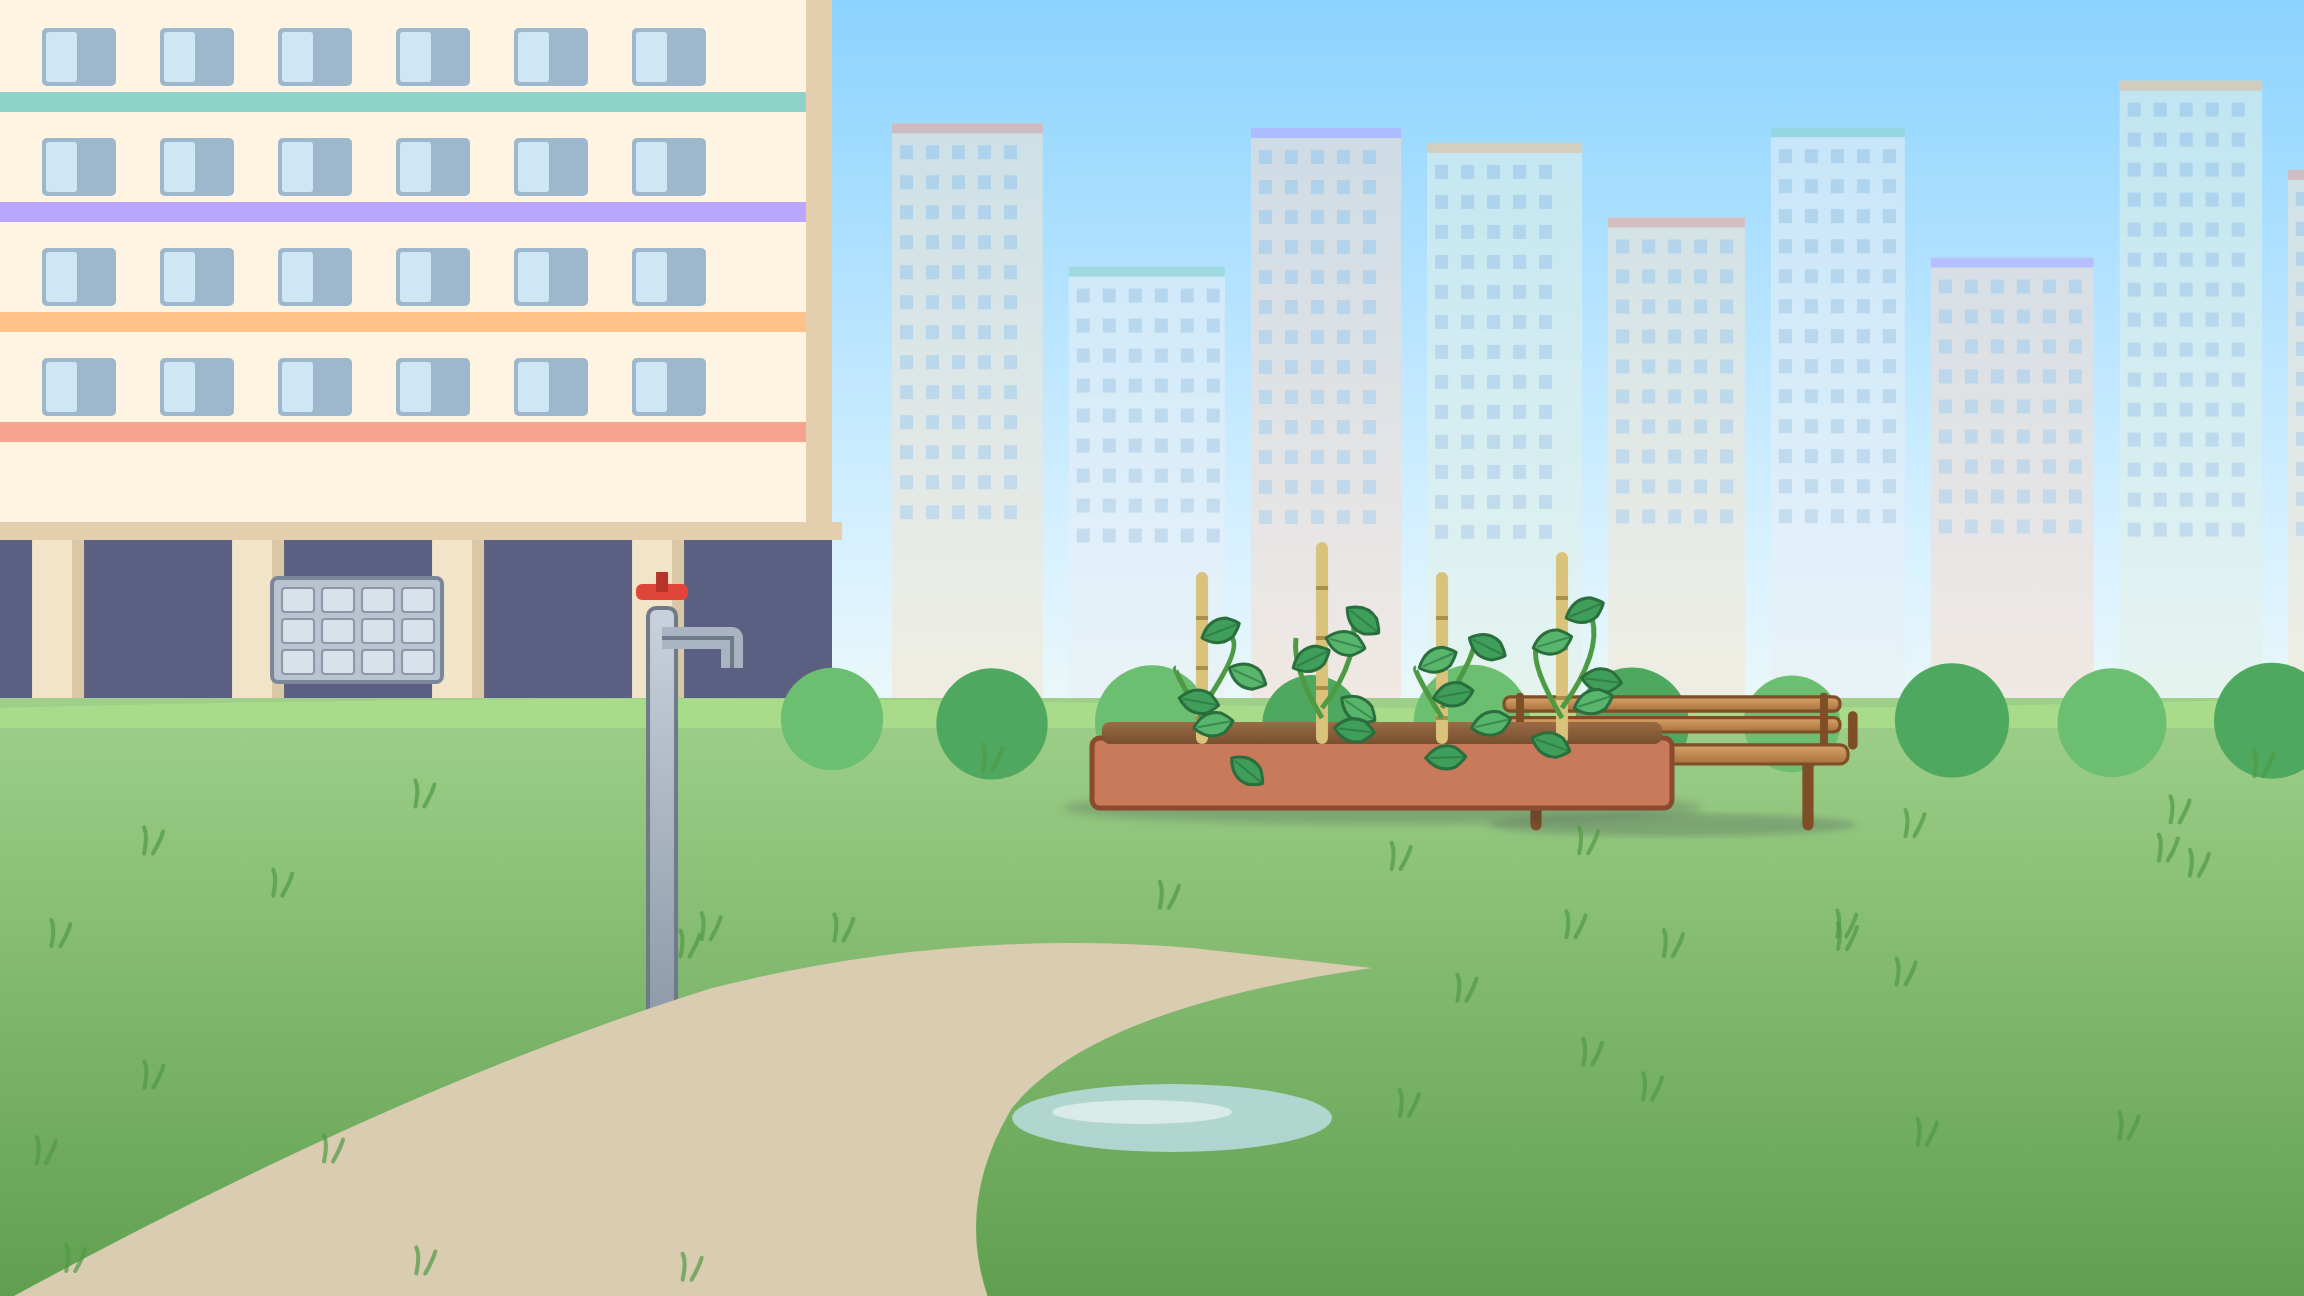
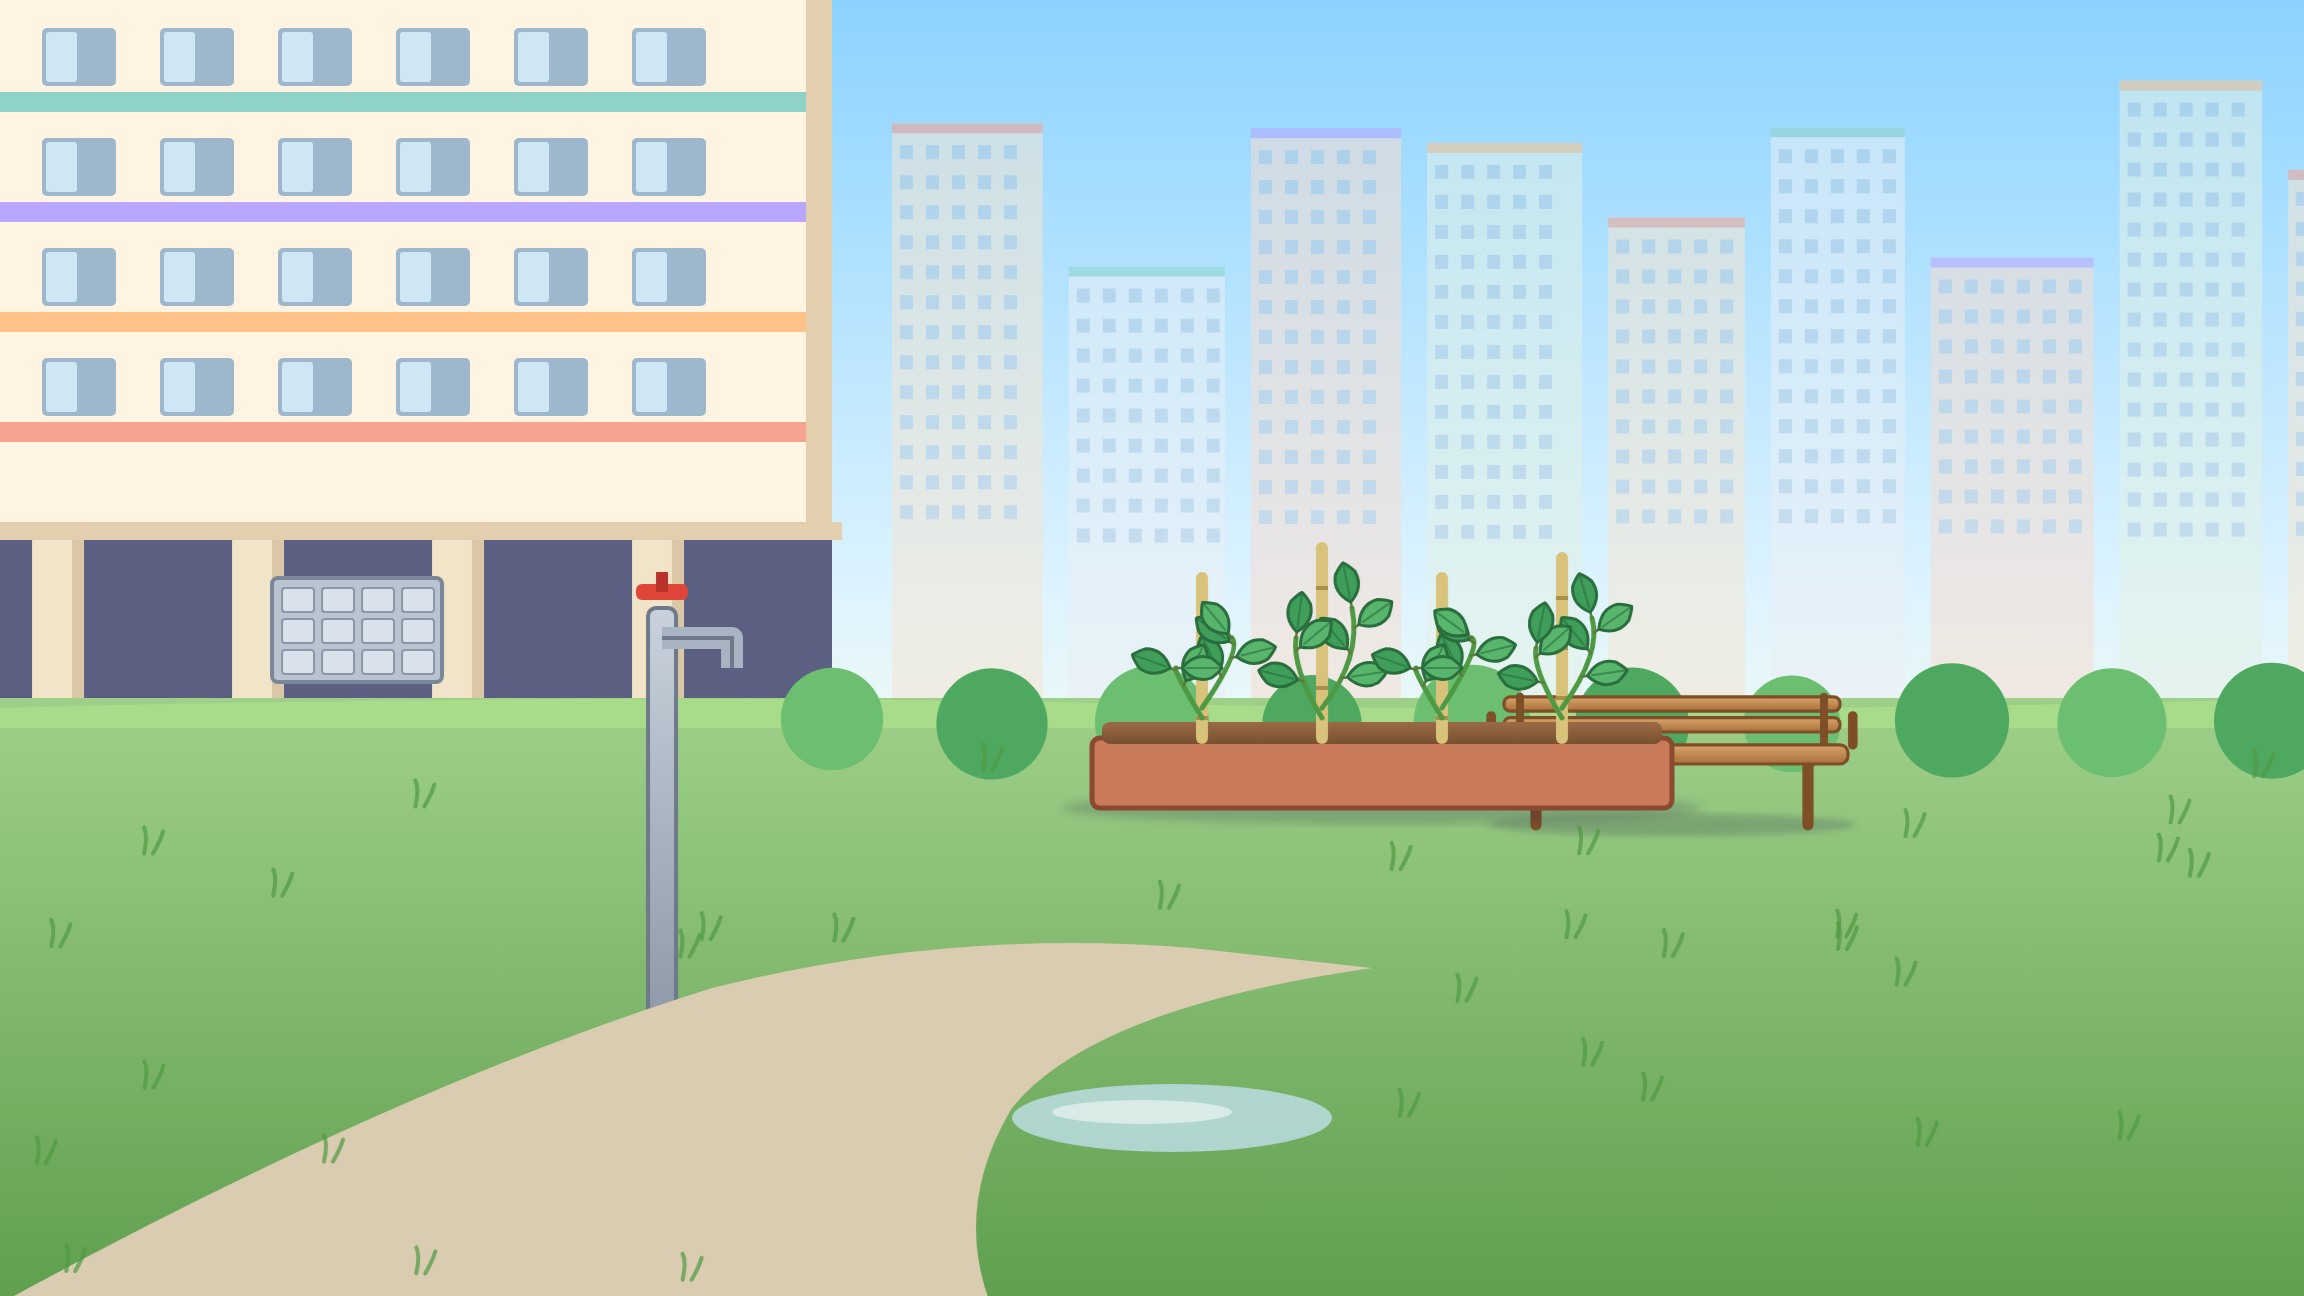
EP17: every leaf on a twig (lime plant, bean vines, corridor pots, pupa look-closer, journey, pictures)
The lime plant now grows like EP18's: trunk, branches and side twigs, every leaf on a
short stalk; the caterpillar's twig is real wood with the chewed leaf on its stalk; the
moth's answer1 leaf and lime-scene leaf are real leaves. corner17 re-baked.

Claude-Session: https://claude.ai/code/session_017vcscXTweEdXk7zMTDrzTD

Changed region(s): [[0.4688, 0.4321, 0.7188, 0.5864], [0.5312, 0.5864, 0.5625, 0.6173]]

diff --git a/production/workspace/explained2/ep17/sets17.js b/production/workspace/explained2/ep17/sets17.js
@@ -28,6 +28,15 @@ const benchArt17 = (bx, by, k = 1) => TF(bx, by, k, `<ellipse cx="0" cy="96" rx=
 const canArt17 = (o = {}) => TF(0, 0, o.k || 1, `<ellipse cx="0" cy="4" rx="90" ry="12" fill="${P.ink}" opacity=".22" filter="url(#b4)"/><path d="M-70 0 L-60 -120 H60 L70 0z" fill="${o.col || "#4FB0A0"}" stroke="${o.line || "#2E7A6E"}" stroke-width="5" stroke-linejoin="round"/><path d="M60 -90 L150 -160 L162 -150 L76 -70" fill="${o.col || "#4FB0A0"}" stroke="${o.line || "#2E7A6E"}" stroke-width="5" stroke-linejoin="round"/><ellipse cx="160" cy="-158" rx="18" ry="10" fill="${o.line || "#2E7A6E"}" transform="rotate(-40 160 -158)"/><path d="M-50 -120 Q0 -200 50 -120" stroke="${o.line || "#2E7A6E"}" stroke-width="12" fill="none" stroke-linecap="round"/><path d="M-60 -60 H60" stroke="#fff" stroke-width="5" opacity=".35"/>`);
 // the handle's top (where an animal can sit), in the can's own frame
 const CANHANDLE = [0, -160];
+// a leaf on its short leaf stalk at (x, y), pointing at angle a (deg) (SERIES_FORMAT: every leaf joins a stem; no leaf floats)
+const stalkLeaf17 = (x, y, a, len, wid, i, o = {}) => { const st = o.stalk || Math.max(8, len * .18); return `<g transform="translate(${n2(x)} ${n2(y)}) rotate(${n2(a)})"><path d="M0 0 L${n2(st)} 0" stroke="${o.stalkC || "#5E7A3A"}" stroke-width="${n2(Math.max(2.5, wid * .14))}" stroke-linecap="round"/><g transform="translate(${n2(st - 2)} 0)">${leaf15(len, wid, (o.cols || ["#3E9E5A", "#58B56C"])[i % 2], o.line || "#2A6E3E")}</g></g>`; };
+// a leafy twig: the stem b = [x0, y0, cx, cy, x1, y1] (a quadratic curve), leaves on stalks along it (alternate sides) and one at its tip.
+// o: n, len, wid, w (stem width), wood, u0, u1, spread (deg), sw (k => sway deg), tip (false: none), seed, stalk, cols, line
+const leafyTwig17 = (b, o = {}) => { const n = o.n === undefined ? 3 : o.n, len = o.len || 60, wid = o.wid || 24, u0 = o.u0 === undefined ? .35 : o.u0, u1 = o.u1 === undefined ? .85 : o.u1, sw = o.sw || (() => 0), sd = o.seed || 0;
+  let s = `<path d="M${n2(b[0])} ${n2(b[1])} Q${n2(b[2])} ${n2(b[3])} ${n2(b[4])} ${n2(b[5])}" stroke="${o.wood || "#7A5230"}" stroke-width="${o.w || 8}" fill="none" stroke-linecap="round"/>`;
+  for (let k = 0; k < n; k++) { const u = u0 + (u1 - u0) * (n > 1 ? k / (n - 1) : 0), [x, y] = qpt(b, u); s += stalkLeaf17(x, y, qang(b, u) + ((k + sd) % 2 ? 1 : -1) * (o.spread || 50) + sw(k), len, wid, k + sd, o); }
+  if (o.tip !== false) s += stalkLeaf17(b[4], b[5], qang(b, 1) + sw(n), len, wid, n + sd, o);
+  return s; };
 
 /* ---------------------------------------------------------------- THE LIME-PLANT SIDE ---------------------------------------------------------------- */
 const POTL = [1160, 950], FENCE = { y: 650, post: [1690, 650] }, BENCHL = [420, 700], PLANTERL = [700, 760];
@@ -131,8 +140,9 @@ BG.corner17 = () => { let s = `<rect x="-200" y="-120" width="2320" height="800"
   // the planter bed with bamboo stakes (the dragonfly's intro spot: a stake's tip)
   s += `<ellipse cx="1190" cy="700" rx="320" ry="16" fill="${P.ink}" opacity=".2" filter="url(#b4)"/><rect x="900" y="630" width="580" height="70" rx="8" fill="#C97A5A" stroke="#8A4A2E" stroke-width="5"/><rect x="910" y="614" width="560" height="22" rx="8" fill="url(#g14Soil)"/>`;
   STAKES.forEach(([x, y], i) => { s += `<path d="M${x} 630 L${x} ${y}" stroke="#D9C27A" stroke-width="12" stroke-linecap="round"/>${[0, 1, 2].map((k) => `<path d="M${x - 6} ${y + 40 + k * 50} h12" stroke="#A8904A" stroke-width="4"/>`).join("")}`;
-    s += `<path d="M${x} 600 Q${x + 40} ${n2(560 - 30 * hash(i, 3))} ${x + 30} ${y + 60} M${x} 610 Q${x - 30} 560 ${x - 26} ${y + 90}" stroke="#4E9A44" stroke-width="5" fill="none"/>`;
-    for (let k = 0; k < 5; k++) s += `<g transform="translate(${n2(x + 30 * Math.sin(k * 2 + i))} ${n2(y + 60 + k * 30)}) rotate(${n2(-40 + 80 * hash(k + i * 5, 7))})">${leaf15(40, 16, k % 2 ? "#58B56C" : "#3E9E5A", "#2A6E3E")}</g>`; });
+    // the bean vines climbing the stake: every leaf on a vine, on its own little stalk (SERIES_FORMAT: no leaf in mid-air)
+    const vo = { len: 40, wid: 16, w: 5, wood: "#4E9A44", stalk: 8, cols: ["#3E9E5A", "#58B56C"] };
+    s += leafyTwig17([x, 600, x + 40, 560 - 30 * hash(i, 3), x + 30, y + 60], { ...vo, n: 3, u0: .3, u1: .8, spread: 55, seed: i }) + leafyTwig17([x, 610, x - 30, 560, x - 26, y + 90], { ...vo, n: 2, u0: .4, u1: .8, spread: 55, seed: i + 1 }); });
   // the tap on its pipe (with a drip at the spout)
   { const [tx, ty] = TAPC; s += `<rect x="${tx - 14}" y="${ty - 200}" width="28" height="${200 + 220}" rx="8" fill="url(#e17Steel)" stroke="#6E7A8A" stroke-width="4"/><path d="M${tx} ${ty - 170} H${tx + 70} V${ty - 140}" stroke="#A9B4C2" stroke-width="22" fill="none" stroke-linejoin="round"/><path d="M${tx} ${ty - 170} H${tx + 70} V${ty - 140}" stroke="#6E7A8A" stroke-width="4" fill="none"/><rect x="${tx - 26}" y="${ty - 224}" width="52" height="16" rx="6" fill="#E0453A"/><rect x="${tx - 6}" y="${ty - 236}" width="12" height="20" fill="#B8342A"/>`; }
   // a puddle drying on the path, wet shine
@@ -154,7 +164,9 @@ function pailArt17(t, o = {}) { const w = PAILW, h = PAILH, wb = w * .78, wy = -
 // the flower pot on its little plate (origin = the plate's middle). o.k
 const plantPotPlate = (t, o = {}) => TF(0, 0, o.k || 1, `<ellipse cx="0" cy="6" rx="130" ry="20" fill="${P.ink}" opacity=".2" filter="url(#b4)"/><ellipse cx="0" cy="0" rx="120" ry="24" fill="#C8643E" stroke="#8A3E22" stroke-width="5"/><ellipse cx="0" cy="-4" rx="102" ry="16" fill="#9FD0DE"/><ellipse cx="-30" cy="-6" rx="30" ry="4" fill="#fff" opacity=".6"/>`
   + `<path d="M-80 -10 L-96 -170 H96 L80 -10z" fill="url(#p15Pot)" stroke="#9A4A2A" stroke-width="5"/><rect x="-104" y="-190" width="208" height="28" rx="8" fill="#D9774A" stroke="#9A4A2A" stroke-width="5"/>`
-  + [...Array(9)].map((_, i) => `<g transform="translate(${-50 + i * 12} -188) rotate(${-120 + i * 30 + 4 * Math.sin(t * 1.2 + i)})">${leaf15(80, 26, i % 2 ? "#58B56C" : "#3E9E5A", "#2A6E3E")}</g>`).join("") + `<g transform="translate(20 -300)">${[0, 1, 2, 3, 4].map((k) => `<ellipse cx="0" cy="-14" rx="10" ry="15" fill="#F49BC4" transform="rotate(${k * 72})"/>`).join("")}<circle r="7" fill="#FFD75A"/></g>`);
+  + `<ellipse cx="0" cy="-188" rx="92" ry="9" fill="url(#p15Soil)"/>` + (() => { const sw = (j) => (k) => 4 * Math.sin(t * 1.2 + j * 2 + k), po = { len: 66, wid: 24, w: 6, wood: "#4E8A3A", stalk: 10, cols: ["#3E9E5A", "#58B56C"] };
+    return leafyTwig17([-14, -186, -40, -236, -92, -262], { ...po, n: 3, u0: .2, u1: .75, spread: 55, sw: sw(0) }) + leafyTwig17([14, -186, 50, -230, 96, -250], { ...po, n: 3, u0: .2, u1: .75, spread: 55, sw: sw(1), seed: 1 })
+      + leafyTwig17([0, -186, 8, -250, 20, -288], { ...po, n: 2, u0: .3, u1: .65, spread: 60, tip: false, sw: sw(2) }); })() + `<g transform="translate(20 -300)">${[0, 1, 2, 3, 4].map((k) => `<ellipse cx="0" cy="-14" rx="10" ry="15" fill="#F49BC4" transform="rotate(${k * 72})"/>`).join("")}<circle r="7" fill="#FFD75A"/></g>`);
 const DFLYAT = { place: [STAKES[1][0], STAKES[1][1] - 6, .34, 0], game: [STAKES[1][0], STAKES[1][1] - 6, .34, 0], waitw: [PAILC[0] + 120, PAILC[1] - PAILH - 16, .3, -20],
   mosqans: [TAPC[0] + 2, TAPC[1] - 240, .3, 0], show: null, fix: [170, 466, .3, 0], liz: [CANC[0] + 2, CANC[1] - 164, .36, -10] };
 // VCR: the live far corner. o: rings, wrig (1 hanging, 2 diving), pupae, dflyAt ([..] | false), items, front, dim, noPail

diff --git a/production/workspace/explained2/ep17/lc17.js b/production/workspace/explained2/ep17/lc17.js
@@ -10,7 +10,7 @@
 
 /* ================================================================ PART 1 ================================================================ */
 // the ring's picture (lockN obj, drawn around (430, 470)): the caterpillar, big, munching its lime leaf
-const ringCat = (tt) => `<circle cx="430" cy="470" r="188" fill="#DFF3D2"/><g transform="translate(330 560) rotate(-12)">${leaf15(240, 80, "#58B56C", "#2F7A45")}</g><path d="M240 600 Q430 560 640 590" stroke="#7A5230" stroke-width="14" fill="none" stroke-linecap="round"/>` + TF(430, 584, .62, cat17(tt, {}), -4);
+const ringCat = (tt) => `<circle cx="430" cy="470" r="188" fill="#DFF3D2"/><path d="M336 586 Q328 574 330 558" stroke="#5E7A3A" stroke-width="10" fill="none" stroke-linecap="round"/><g transform="translate(330 560) rotate(-12)">${leaf15(240, 80, "#58B56C", "#2F7A45")}</g><path d="M240 600 Q430 560 640 590" stroke="#7A5230" stroke-width="14" fill="none" stroke-linecap="round"/>` + TF(430, 584, .62, cat17(tt, {}), -4);
 // Momo's idea (a worm?): a pink earthworm wriggling in soil, with a ? (an idea, never a fact)
 const wormIdea = (t) => { let s = `<rect x="-300" y="-200" width="600" height="400" fill="#E9D3B4"/><rect x="-300" y="40" width="600" height="160" fill="#8A5A3A"/>`;
   const pts = [...Array(9)].map((_, i) => [-130 + i * 32, 30 + 14 * Math.sin(i * .9 + t * 4)]); s += `<path d="M${pts.map(([x, y]) => `${x} ${n2(y)}`).join(" L")}" stroke="#E98A9A" stroke-width="34" fill="none" stroke-linecap="round" stroke-linejoin="round"/><path d="M${pts.map(([x, y]) => `${x} ${n2(y - 6)}`).join(" L")}" stroke="#F6B6C0" stroke-width="10" fill="none" stroke-linecap="round" opacity=".7"/>`
@@ -55,7 +55,9 @@ function pupaArt(t) { const m = MK, s0 = SCN.lcpupa.t0 + 1, tW = m("window"), tC
   const WC = pupaPt(4, -150), cam = camSeq(t, [s0, tW, tD - .4, tO, tFl], [[-60, 0, 1], [WC[0] + 60, WC[1], 1.55], [-80, -20, 1.12], [pupaPt(-14, -300)[0] + 80, pupaPt(-14, -300)[1] - 110, 1.3], [60, -60, 1]], 1.1);
   const cp = (p) => [(p[0] - cam[0]) * cam[2], (p[1] - cam[1]) * cam[2]]; let lab = "";
   const lit = { wings: pulse(t, W("a1102", "develop") + .2, .05, 1.6), feelers: pulse(t, W("a1102", "develop") + 1.1, .05, 1.6), legs: pulse(t, W("a1102", "adult") + .1, .05, 1.6) };
-  let w = `<path d="M-900 300 Q-400 260 0 320 T900 300 V500 H-900z" fill="#BFE3A8" opacity=".5"/><g transform="translate(380 220) rotate(-20)">${leaf15(260, 90, "#58B56C", "#2F7A45")}</g><g transform="translate(-620 -260) rotate(30)">${leaf15(200, 70, "#3E9E5A", "#2A6E3E")}</g>`;
+  let w = `<path d="M-900 300 Q-400 260 0 320 T900 300 V500 H-900z" fill="#BFE3A8" opacity=".5"/>`
+    + leafyTwig17([920, 330, 680, 300, 440, 262], { n: 2, len: 170, wid: 60, w: 22, u0: .25, u1: .6, spread: 40, stalk: 22, cols: ["#58B56C", "#3E9E5A"], line: "#2F7A45" })
+    + leafyTwig17([-920, -330, -760, -330, -640, -272], { n: 1, len: 200, wid: 70, w: 20, u0: .45, spread: 50, stalk: 22, cols: ["#3E9E5A", "#58B56C"], line: "#2A6E3E" });
   // the pupa (or, once the butterfly is out, the empty case), held to its stem
   w += TF(PPX, PPY, PPK, pupa17(t, { dark, win, form, split, empty, lit, id: "lp" }));
   // the labels, colour-coded and joined: pupal case (purple), wings / feelers / legs inside the window
@@ -82,7 +84,7 @@ function pupaArt(t) { const m = MK, s0 = SCN.lcpupa.t0 + 1, tW = m("window"), tC
 function leafField(t, k = 1, rot = 0, bites = 0) { const vx = 960, vy = 330; let s = `<rect width="1920" height="1080" fill="url(#e17LeafSky)"/>`;
   s += `<g transform="translate(960 600) rotate(${n2(rot)}) scale(${n2(k)}) translate(-960 -600)">`;
   // far leaves and a branch, out of focus
-  s += [[260, 200, 380, 140], [1600, 160, 420, 150], [980, 120, 300, 100]].map(([x, y, l, wd], i) => `<g transform="translate(${x} ${y}) rotate(${-30 + 40 * i})" opacity=".55" filter="url(#b6)">${leaf15(l, wd, "#58B56C", "#3E9E5A")}</g>`).join("") + `<path d="M-200 60 Q700 140 2100 40" stroke="#7A5230" stroke-width="40" fill="none" opacity=".4" filter="url(#b6)"/>`;
+  { const FB = [-200, 60, 700, 140, 2100, 40]; s += `<g opacity=".55" filter="url(#b6)"><path d="M-200 60 Q700 140 2100 40" stroke="#7A5230" stroke-width="40" fill="none" opacity=".75"/>` + [[.2, 40, 380, 140], [.5, 150, 300, 100], [.78, 30, 420, 150]].map(([u, a, l, wd], i) => { const [x, y] = qpt(FB, u); return stalkLeaf17(x, y, a, l, wd, 0, { stalk: 40, cols: ["#58B56C"], line: "#3E9E5A", stalkC: "#6E8A44" }); }).join("") + `</g>`; }
   // the leaf: a wide plane with its midrib and veins
   s += `<path d="M-700 1300 Q-560 420 ${vx} ${vy} Q2480 420 2620 1300z" fill="#5FB860" stroke="#3E9E5A" stroke-width="14"/><path d="M-700 1300 Q-560 420 ${vx} ${vy} Q2480 420 2620 1300z" fill="url(#e17LeafShine)"/>`
     + `<path d="M960 1300 L${vx} ${vy}" stroke="#A8E39A" stroke-width="34"/>` + [...Array(9)].map((_, i) => { const u = (i + 1) / 10, y = vy + (1300 - vy) * u * u, x0 = 960; return `<path d="M${x0} ${n2(y)} Q${n2(x0 - 600 * u)} ${n2(y - 60 * u)} ${n2(x0 - 1700 * u)} ${n2(y - 200 * u)} M${x0} ${n2(y)} Q${n2(x0 + 600 * u)} ${n2(y - 60 * u)} ${n2(x0 + 1700 * u)} ${n2(y - 200 * u)}" stroke="#8FD486" stroke-width="${n2(4 + 14 * u)}" fill="none"/>`; }).join("");
@@ -134,7 +136,7 @@ const ffSilk = (t, w, h) => `<rect x="${-w / 2}" y="${-h / 2}" width="${w}" heig
 // the recap pictures (Part 2's "Last time...": 1040 x 600 each, one at a time): the caterpillar on its leaf (a larva), the empty pupal case
 // and the butterfly beside it, the pail of rainwater with a ?
 const recapPic17 = (i, t) => { let s = `<rect x="-520" y="-300" width="1040" height="600" fill="${["#E3F4D8", "#EAF6E2", "#DCEFFB"][i]}"/>`;
-  if (i === 0) s += `<path d="M-520 120 Q0 60 520 110" stroke="#7A5230" stroke-width="40" fill="none"/><g transform="translate(-460 150) rotate(-20)">${leaf15(300, 100, "#58B56C", "#2F7A45")}</g>` + TF(30, 100, 1.5, cat17(t, {}));
+  if (i === 0) s += `<path d="M-520 120 Q0 60 520 110" stroke="#7A5230" stroke-width="40" fill="none"/><path d="M-464 112 Q-466 132 -460 152" stroke="#5E7A3A" stroke-width="14" fill="none" stroke-linecap="round"/><g transform="translate(-460 150) rotate(-20)">${leaf15(300, 100, "#58B56C", "#2F7A45")}</g>` + TF(30, 100, 1.5, cat17(t, {}));
   if (i === 1) s += TF(-180, 240, 1.25, pupa17(t, { empty: true })) + TF(200, -30, .85, bfly17(t, { flap: .3 + .3 * Math.sin(t * 2.5) }));
   if (i === 2) s += `<rect x="-520" y="120" width="1040" height="180" fill="#9FD08A"/>` + TF(0, 260, 1.5, pailArt17(t, { rings: [[MK("pic3") + .4, 0]], wrig: 1, id: "rc" }));
   return s; };

diff --git a/production/workspace/explained2/ep17/art17.js b/production/workspace/explained2/ep17/art17.js
@@ -168,7 +168,7 @@ function dnymph17(t, o = {}) { const g = o.gulp || 0, sw = 3 * Math.sin(t * 2.4)
 
 /* ---------------------------------------------------------------- the boards ---------------------------------------------------------------- */
 // the four stage pictures, each drawn in -110..110 (a tile). kind "b" the lime butterfly, "m" the mosquito
-const bPic = (i, t) => i === 0 ? `<rect x="-110" y="-110" width="220" height="220" fill="#E8F5DC"/><g transform="translate(-60 40) rotate(-24)">${leaf15(190, 64, "#6CC36E", "#2F8048")}</g>` + TF(50, -6, 2.4, limeEgg(1, t))
+const bPic = (i, t) => i === 0 ? `<rect x="-110" y="-110" width="220" height="220" fill="#E8F5DC"/><path d="M-110 104 Q-84 66 -62 42" stroke="#7A5230" stroke-width="12" fill="none" stroke-linecap="round"/><g transform="translate(-60 40) rotate(-24)">${leaf15(190, 64, "#6CC36E", "#2F8048")}</g>` + TF(50, -6, 2.4, limeEgg(1, t))
   : i === 1 ? `<rect x="-110" y="-110" width="220" height="220" fill="#E8F5DC"/><path d="M-110 54 Q0 40 110 60 V110 H-110z" fill="#7A5A34"/>` + TF(0, 56, .45, cat17(t, {}))
   : i === 2 ? `<rect x="-110" y="-110" width="220" height="220" fill="#E8F5DC"/>` + TF(10, 84, .56, pupa17(t, {}))
   : `<rect x="-110" y="-110" width="220" height="220" fill="#DCEFFB"/>` + TF(0, 0, .5, bfly17(t, { flap: .25 + .25 * Math.sin(t * 3) }));
